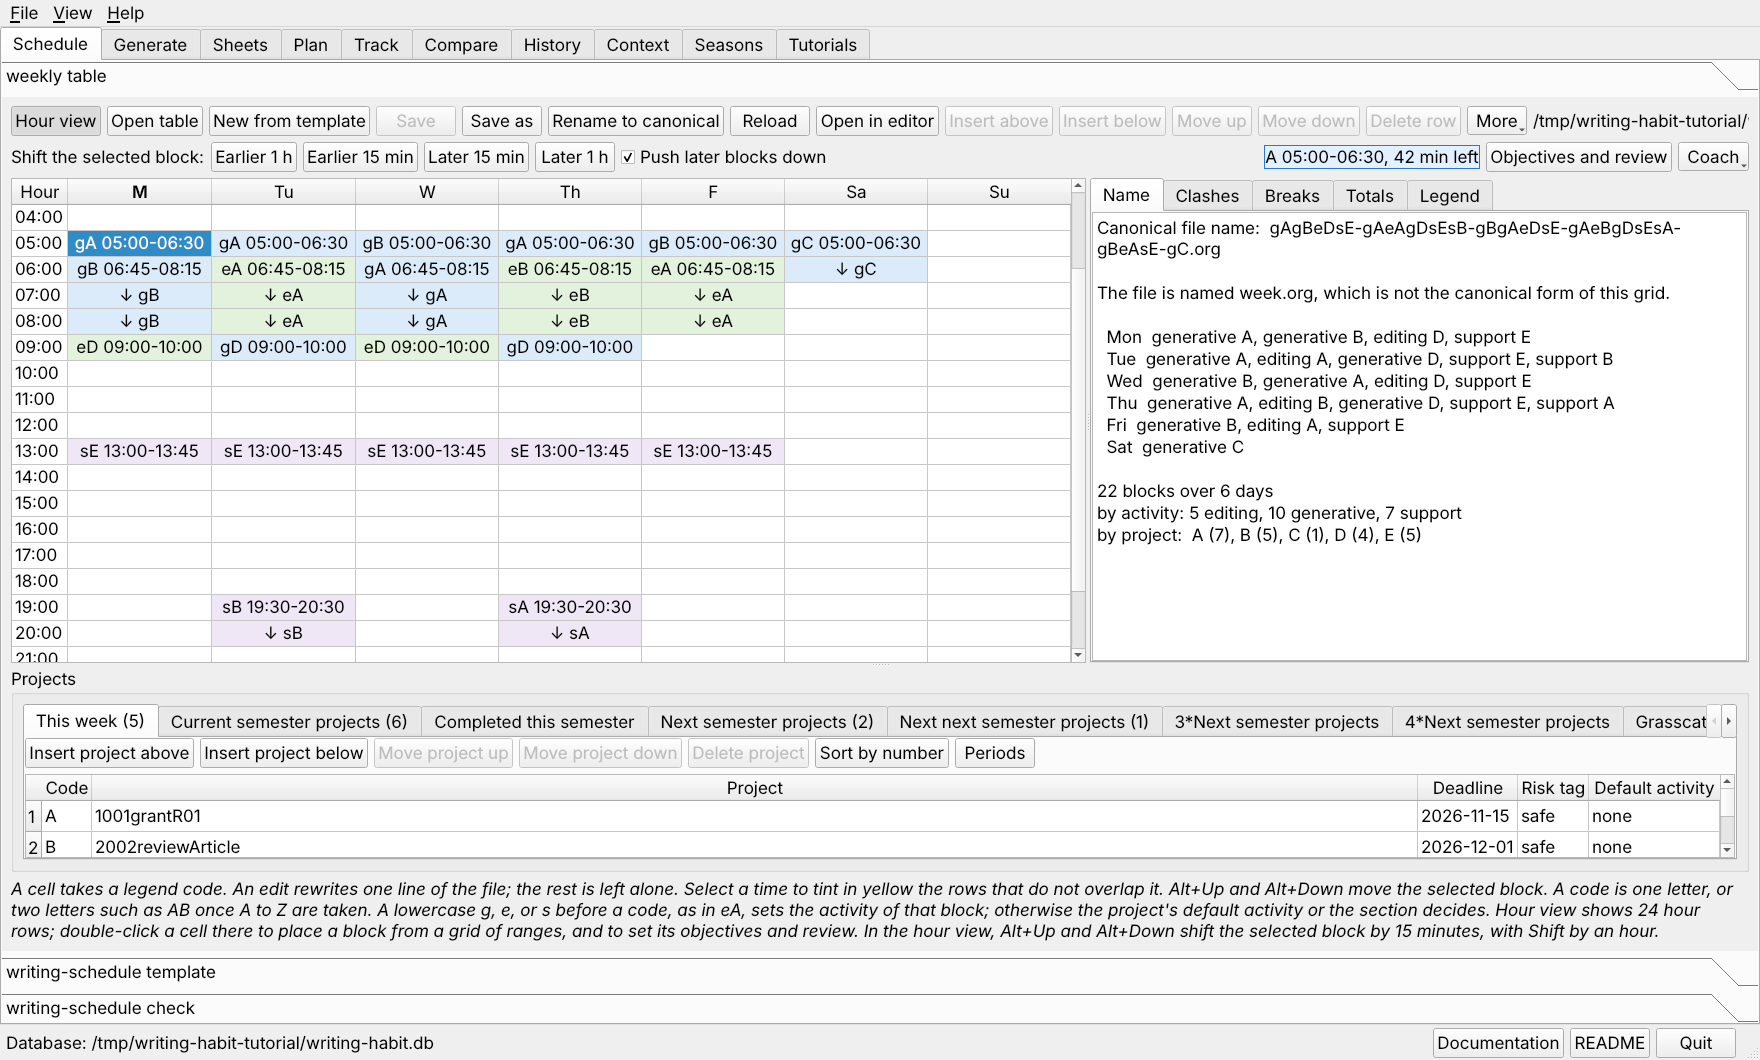
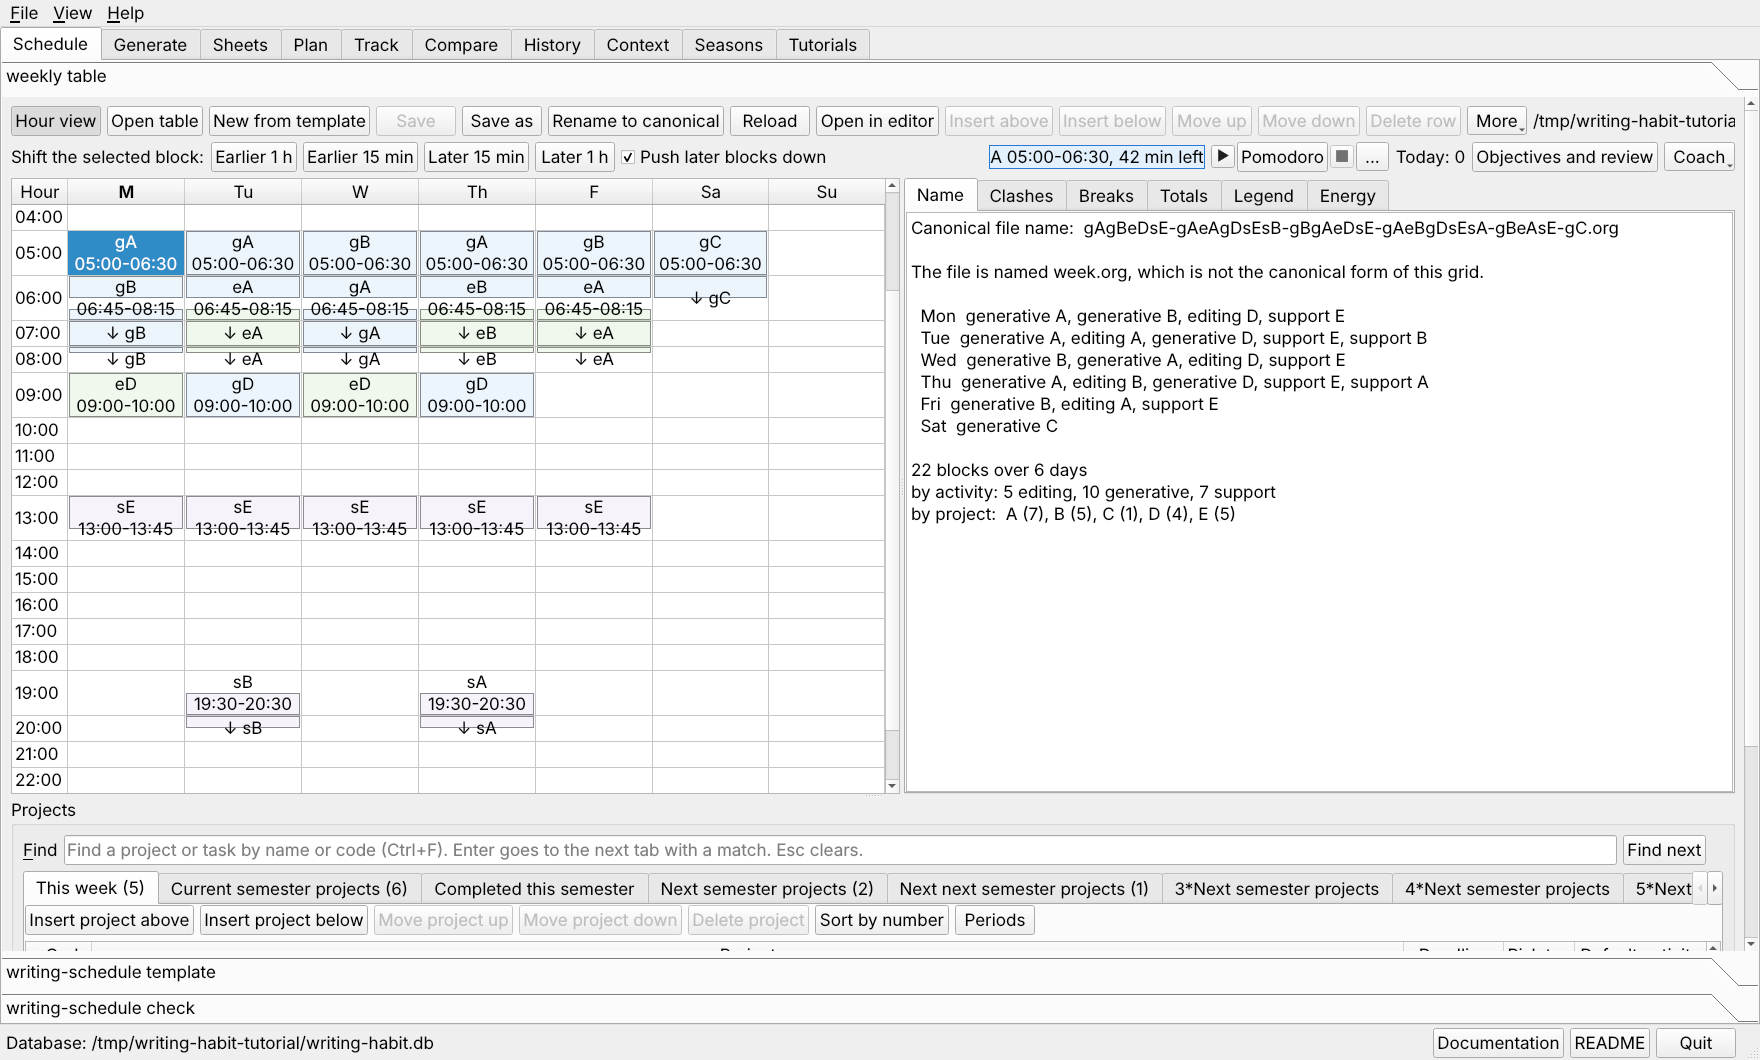
Updated.

Changed region(s): [[0.0, 0.1245, 1.0, 0.9028], [0.4062, 0.5292, 0.4688, 0.5915], [0.0625, 0.1557, 0.0938, 0.1868]]

diff --git a/src/writing_habit/gui/hour_view.py b/src/writing_habit/gui/hour_view.py
@@ -32,6 +32,64 @@ OFF_HOURS_COLOR = "#f4f4f4"
 #: The mark before a code in an hour that a longer block runs into.
 CONTINUES = "↓ "
 
+#: The role that gives the part of an hour each block fills, for the painter.
+SEGMENTS_ROLE = Qt.UserRole + 41
+#: The opacity of a block's fill, so the borders of overlapping or touching
+#: blocks and the white of a break inside the hour both show through.
+FILL_ALPHA = 128
+#: The sideways step between blocks that overlap in time, in pixels, so their
+#: borders do not lie on top of each other.
+LANE_STEP = 4
+
+
+class Segment(tuple):
+    """``(top, bottom, color, lane)``: a block's share of one hour cell.
+
+    ``top`` and ``bottom`` are fractions of the hour, 0 at its start and 1 at
+    its end, ``color`` is the block's fill as a hex string, and ``lane`` counts
+    the earlier blocks in the cell that it overlaps.
+    """
+
+    __slots__ = ()
+
+    def __new__(cls, top: float, bottom: float, color: str, lane: int = 0):
+        return super().__new__(cls, (top, bottom, color, lane))
+
+    top = property(lambda self: self[0])
+    bottom = property(lambda self: self[1])
+    color = property(lambda self: self[2])
+    lane = property(lambda self: self[3])
+
+
+def _minutes(clock: str) -> int:
+    return int(clock[:2]) * 60 + int(clock[3:5])
+
+
+def hour_segments(hour: int, blocks, color_of) -> List[Segment]:
+    """Return the part of hour ``hour`` that each of ``blocks`` fills.
+
+    ``color_of`` gives a block's fill colour. A block that crosses midnight
+    runs to the end of the day. Blocks that overlap in time take successive
+    lanes, so the painter can offset their outlines.
+    """
+    first_minute, last_minute = hour * 60, hour * 60 + 60
+    out: List[Segment] = []
+    spans: List[Tuple[int, int, int]] = []
+    for block in sorted(blocks, key=lambda b: (b.start, b.end, b.row, b.column)):
+        start, end = _minutes(block.start), _minutes(block.end)
+        if end <= start:
+            end = 24 * 60
+        top, bottom = max(start, first_minute), min(end, last_minute)
+        if bottom <= top:
+            continue
+        lane = 0
+        while any(lane == used and top < b and a < bottom for a, b, used in spans):
+            lane += 1
+        spans.append((top, bottom, lane))
+        out.append(Segment((top - first_minute) / 60, (bottom - first_minute) / 60,
+                           color_of(block), lane))
+    return out
+
 
 def sheet_hours() -> Tuple[int, int]:
     """Return the first and last hour the printed sheet draws."""
@@ -179,11 +237,24 @@ class HourGridModel(QtCore.QAbstractTableModel):
             if not self.in_sheet(row):
                 return QtGui.QBrush(QtGui.QColor(OFF_HOURS_COLOR))
             return None
+        if role == SEGMENTS_ROLE:
+            return hour_segments(row, spans + starts, lambda b: self.block_color(b, found))
         if role == Qt.TextAlignmentRole:
             return int(Qt.AlignCenter)
         if role == Qt.ToolTipRole:
             return self.tooltip(starts, spans)
         return None
+
+    def block_color(self, block, found: bool = False) -> str:
+        """Return the fill of one block, by the same priorities as the cell."""
+        cell = (block.row, block.column)
+        if cell in self._conflicts:
+            return CONFLICT_COLOR
+        if found and block.letter in self.highlight:
+            return FIND_COLOR
+        if cell in self._breaks:
+            return BREAK_COLOR
+        return ACTIVITY_COLOR[block.category]
 
     def tooltip(self, starts, spans) -> Optional[str]:
         lines: List[str] = []
@@ -201,6 +272,52 @@ class HourGridModel(QtCore.QAbstractTableModel):
         if not lines:
             return "Double-click or press Enter to place a block in this hour"
         return "\n".join(lines)
+
+
+class HourCellDelegate(QtWidgets.QStyledItemDelegate):
+    """Paint each block as a half-transparent bar over the minutes it fills.
+
+    A cell no longer takes one colour for the whole hour. Each block is drawn
+    from its start to its end within the hour with a fill at half opacity and
+    a solid outline, so two blocks that touch show the line between them, two
+    that overlap show both outlines and a deeper colour where they cross, and
+    a break inside the hour stays white.
+    """
+
+    def paint(self, painter, option, index):
+        segments = index.data(SEGMENTS_ROLE)
+        if not segments:
+            super().paint(painter, option, index)
+            return
+        opt = QtWidgets.QStyleOptionViewItem(option)
+        self.initStyleOption(opt, index)
+        rect = opt.rect
+        painter.save()
+        base = QtGui.QColor("#ffffff")
+        hour = index.row()
+        model = index.model()
+        if hasattr(model, "in_sheet") and not model.in_sheet(hour):
+            base = QtGui.QColor(OFF_HOURS_COLOR)
+        painter.fillRect(rect, base)
+        for segment in segments:
+            top = rect.top() + round(segment.top * rect.height())
+            bottom = rect.top() + round(segment.bottom * rect.height())
+            inset = 1 + LANE_STEP * segment.lane
+            bar = QtCore.QRect(rect.left() + inset, top,
+                               max(rect.width() - 2 * inset, 4), max(bottom - top, 2))
+            fill = QtGui.QColor(segment.color)
+            outline = fill.darker(170)
+            fill.setAlpha(FILL_ALPHA)
+            painter.fillRect(bar, fill)
+            painter.setPen(QtGui.QPen(outline, 1))
+            painter.setBrush(Qt.NoBrush)
+            painter.drawRect(bar.adjusted(0, 0, -1, -1))
+        painter.restore()
+        # The text and any selection are drawn over the bars, without the
+        # cell's own background, which the bars replace.
+        opt.backgroundBrush = QtGui.QBrush(Qt.NoBrush)
+        style = opt.widget.style() if opt.widget is not None else QtWidgets.QApplication.style()
+        style.drawControl(QtWidgets.QStyle.CE_ItemViewItem, opt, painter, opt.widget)
 
 
 # -- remembered ranges -----------------------------------------------------

diff --git a/tests/test_gui_hour_view.py b/tests/test_gui_hour_view.py
@@ -258,3 +258,73 @@ def test_drop_unused_rows_does_nothing_when_declined(editor, monkeypatch):
     assert editor.drop_unused_rows() == 0
     assert editor.table.to_text() == text
     assert not Path(editor.table.path + ".bak").exists()
+
+
+# -- half-transparent bars within an hour -------------------------------------
+BARS = (
+    "#+TITLE: bars\n"
+    "|        Time | M  | Tu |\n"
+    "|-------------+----+----|\n"
+    "| 05:00-05:30 | gA | gA |\n"
+    "| 05:15-06:00 |    | eB |\n"
+    "| 05:30-05:45 | eB |    |\n"
+    "|-------------+----+----|\n"
+    "| A: one :safe: |  |  |\n"
+    "| B: two :safe: |  |  |\n"
+)
+
+
+def test_each_block_fills_only_its_minutes_of_the_hour(qtbot, tmp_path, monkeypatch, store):
+    from writing_habit.gui.hour_view import SEGMENTS_ROLE
+    from writing_habit.gui.table_model import ACTIVITY_COLOR
+    editor_ = _open(qtbot, tmp_path, monkeypatch, store, BARS)
+    model = editor_.hour_model
+    monday = model.data(model.index(5, 1), SEGMENTS_ROLE)
+    # Monday: 05:00-05:30 then 05:30-05:45 touch, and 05:45-06:00 is a break.
+    assert [(s.top, s.bottom, s.lane) for s in monday] == [(0.0, 0.5, 0), (0.5, 0.75, 0)]
+    assert [s.color for s in monday] == [ACTIVITY_COLOR["generative"],
+                                         ACTIVITY_COLOR["editing"]]
+    # Tuesday: 05:15-06:00 overlaps 05:00-05:30, so it takes the next lane.
+    tuesday = model.data(model.index(5, 2), SEGMENTS_ROLE)
+    assert [(s.top, s.bottom, s.lane) for s in tuesday] == [(0.0, 0.5, 0), (0.25, 1.0, 1)]
+    assert model.data(model.index(7, 1), SEGMENTS_ROLE) == []
+
+
+def test_a_long_block_fills_each_hour_it_runs_into(editor):
+    from writing_habit.gui.hour_view import SEGMENTS_ROLE
+    model = editor.hour_model
+    # Tuesday 08:00-10:00, then 10:00-11:00: hour 9 is full, hour 10 holds B only.
+    assert [(s.top, s.bottom) for s in model.data(model.index(9, 2), SEGMENTS_ROLE)] == [(0.0, 1.0)]
+    assert [(s.top, s.bottom) for s in model.data(model.index(10, 2), SEGMENTS_ROLE)] == [(0.0, 1.0)]
+
+
+def test_the_bars_are_painted_half_transparent(qtbot, tmp_path, monkeypatch, store):
+    from writing_habit.gui.qt import QtGui
+    editor_ = _open(qtbot, tmp_path, monkeypatch, store, BARS)
+    editor_.set_hour_view(True)
+    editor_.resize(900, 700)
+    editor_.show()
+    qtbot.waitExposed(editor_)
+    view = editor_.hour_view
+    view.setRowHeight(5, 80)
+    rect = view.visualRect(editor_.hour_model.index(5, 1))
+    image = view.viewport().grab().toImage()
+    x = rect.left() + 3
+    fill = QtGui.QColor(image.pixel(x, rect.top() + 10))          # inside 05:00-05:30
+    gap = QtGui.QColor(image.pixel(x, rect.top() + rect.height() - 6))  # the 05:45 break
+    assert gap.name() == "#ffffff"
+    assert fill.name() not in ("#ffffff", "#dcebfa")              # blended, not solid
+
+
+def _open(qtbot, tmp_path, monkeypatch, store, text):
+    pytest.importorskip("PyQt5", reason="the graphical extra is not installed")
+    monkeypatch.setattr("writing_habit.gui.settings.get", lambda key: store.get(key, ""))
+    monkeypatch.setattr("writing_habit.gui.settings.put",
+                        lambda key, value: store.__setitem__(key, value))
+    from writing_habit.gui.schedule_editor import ScheduleEditor
+    widget = ScheduleEditor()
+    qtbot.addWidget(widget)
+    path = tmp_path / "bars.org"
+    path.write_text(text, encoding="utf-8")
+    widget.open(str(path))
+    return widget

diff --git a/src/writing_habit/gui/schedule_editor.py b/src/writing_habit/gui/schedule_editor.py
@@ -37,7 +37,7 @@ from .periods_dialog import PeriodsDialog
 from .project_list_view import ProjectListPanel
 from . import coach_runner
 from .review_panel import ReviewDialog
-from .hour_view import HOUR_COLUMN, HourGridModel, HourPicker
+from .hour_view import HOUR_COLUMN, HourCellDelegate, HourGridModel, HourPicker
 from .table_model import TIME_COLUMN, CodeDelegate, WeeklyTableModel
 
 import sys as _sys
@@ -371,6 +371,7 @@ class ScheduleEditor(QtWidgets.QWidget):
         self.hour_model = HourGridModel(parent=self)
         self.hour_view = QtWidgets.QTableView()
         self.hour_view.setModel(self.hour_model)
+        self.hour_view.setItemDelegate(HourCellDelegate(self.hour_view))
         self.hour_view.setAlternatingRowColors(False)
         self.hour_view.setWordWrap(True)
         self.hour_view.verticalHeader().setVisible(False)

diff --git a/docs/gui.md b/docs/gui.md
@@ -318,6 +318,12 @@ time says that it does not overlap the selected one.
 per hour, with the days as columns. Press it again for the row view. The hour
 view is the default, and the window remembers which view you used last.
 
+Each block is drawn as a bar over the minutes it fills within the hour, with
+its colour at half opacity and a solid outline. Two blocks that touch show the
+line between them, two that overlap show both outlines, offset a little, and a
+deeper colour where they cross, and a break inside an hour, such as 06:30 to
+06:45, stays white.
+
 ![The hour view of a week, with a Saturday run of five hours tinted amber and listed in the Breaks panel.](imgs/gui-hour-view.png)
 
 A cell lists the blocks that start in that hour, such as `gB 04:00-06:00`. The
